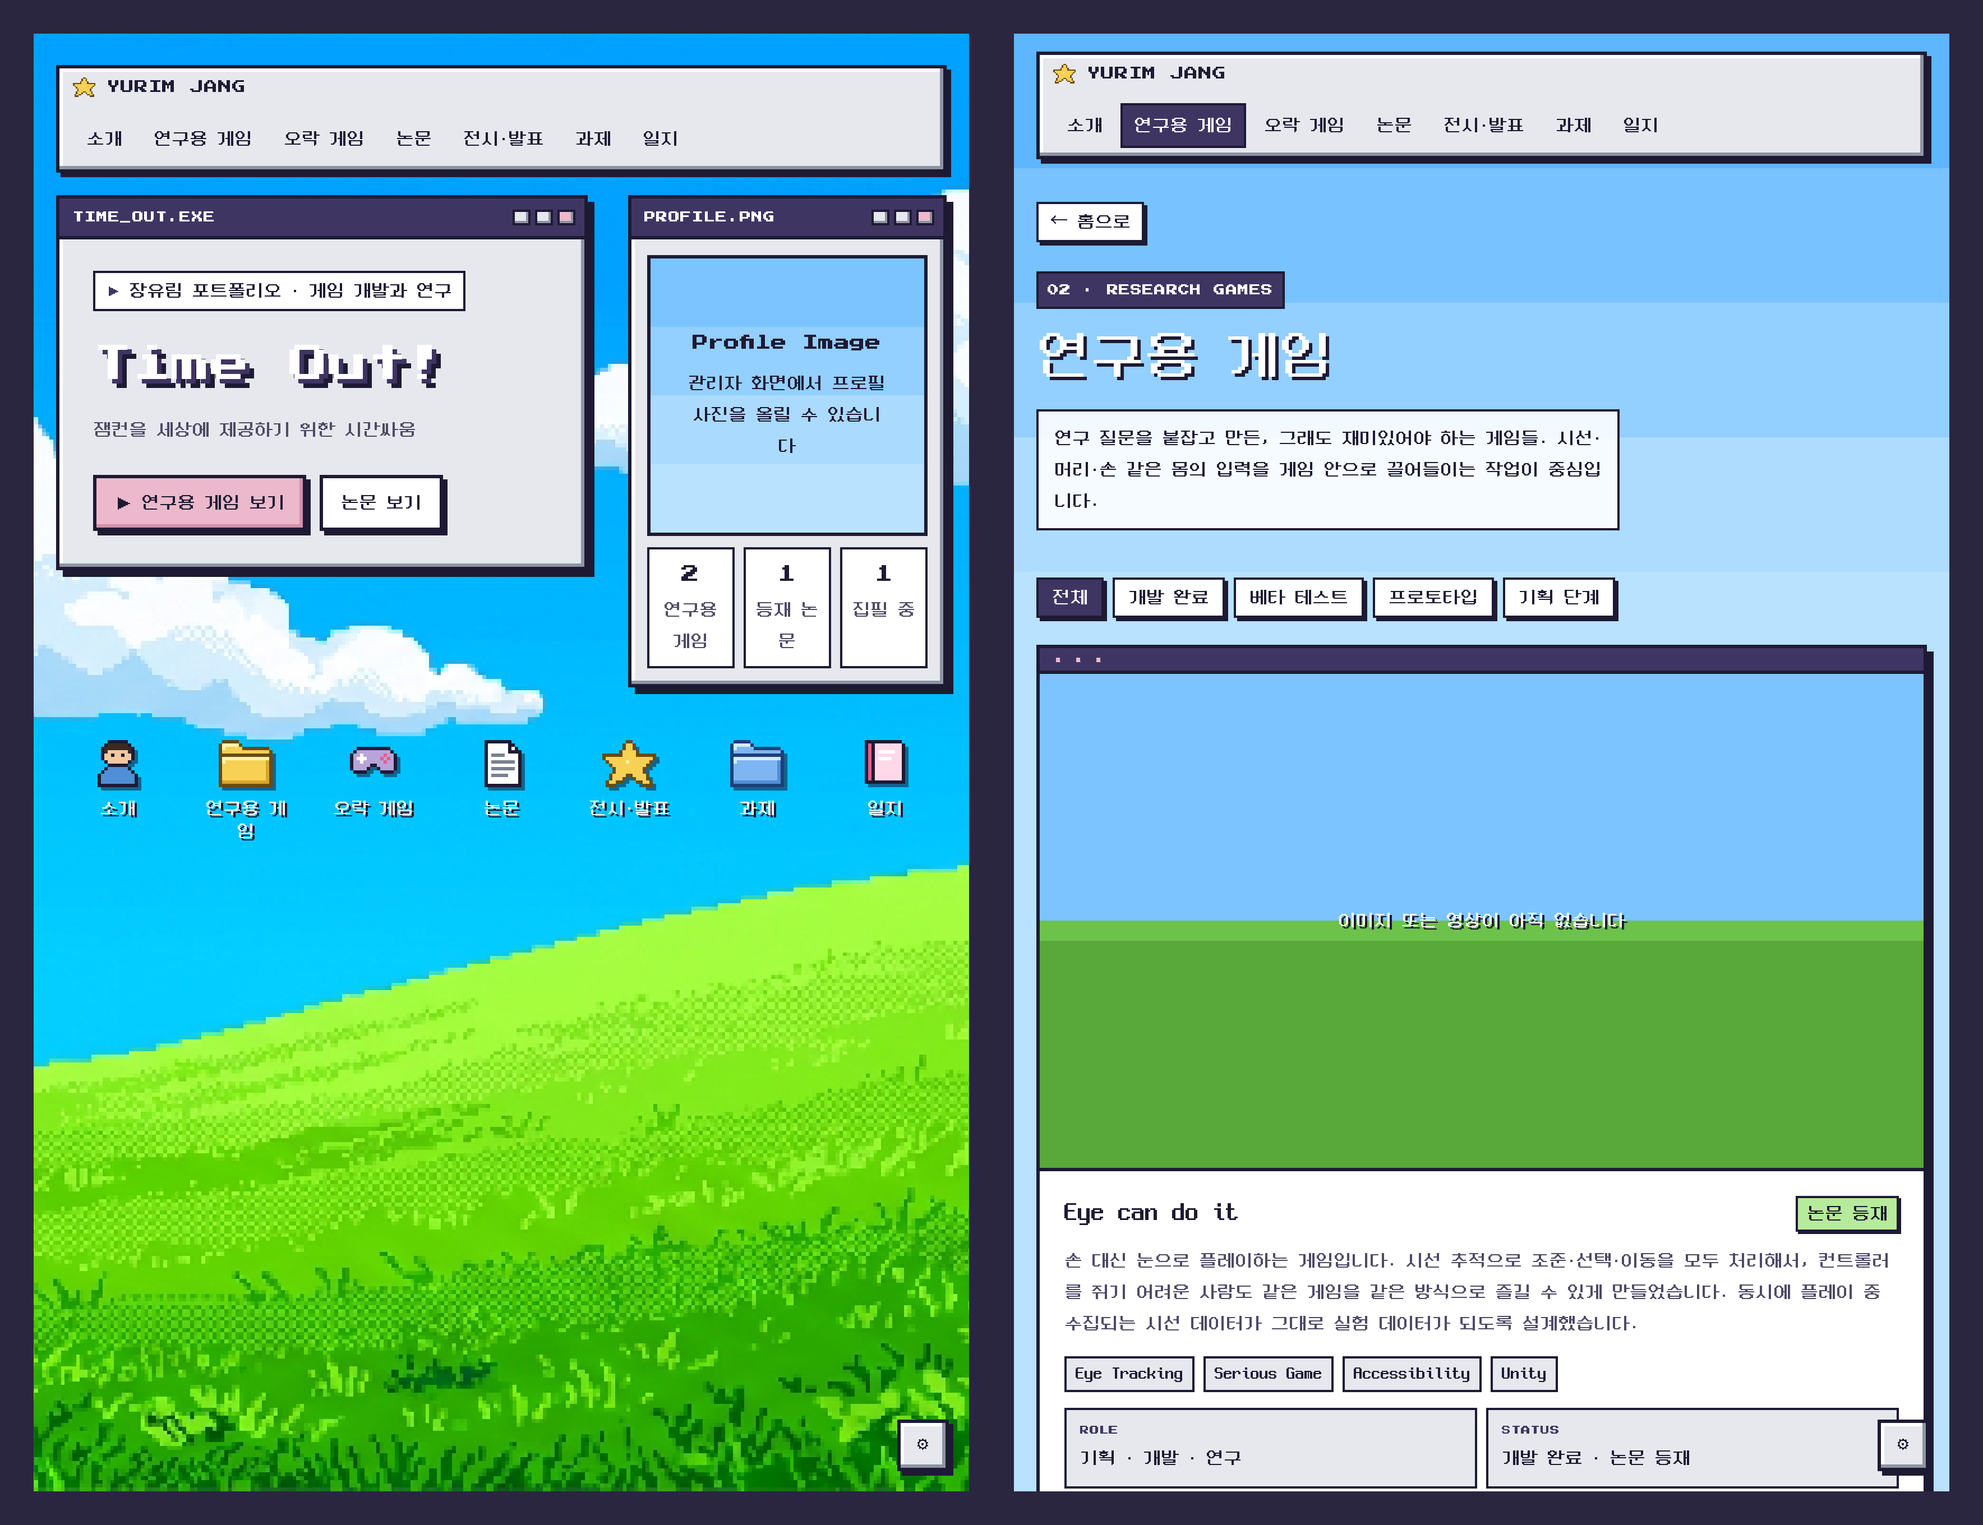
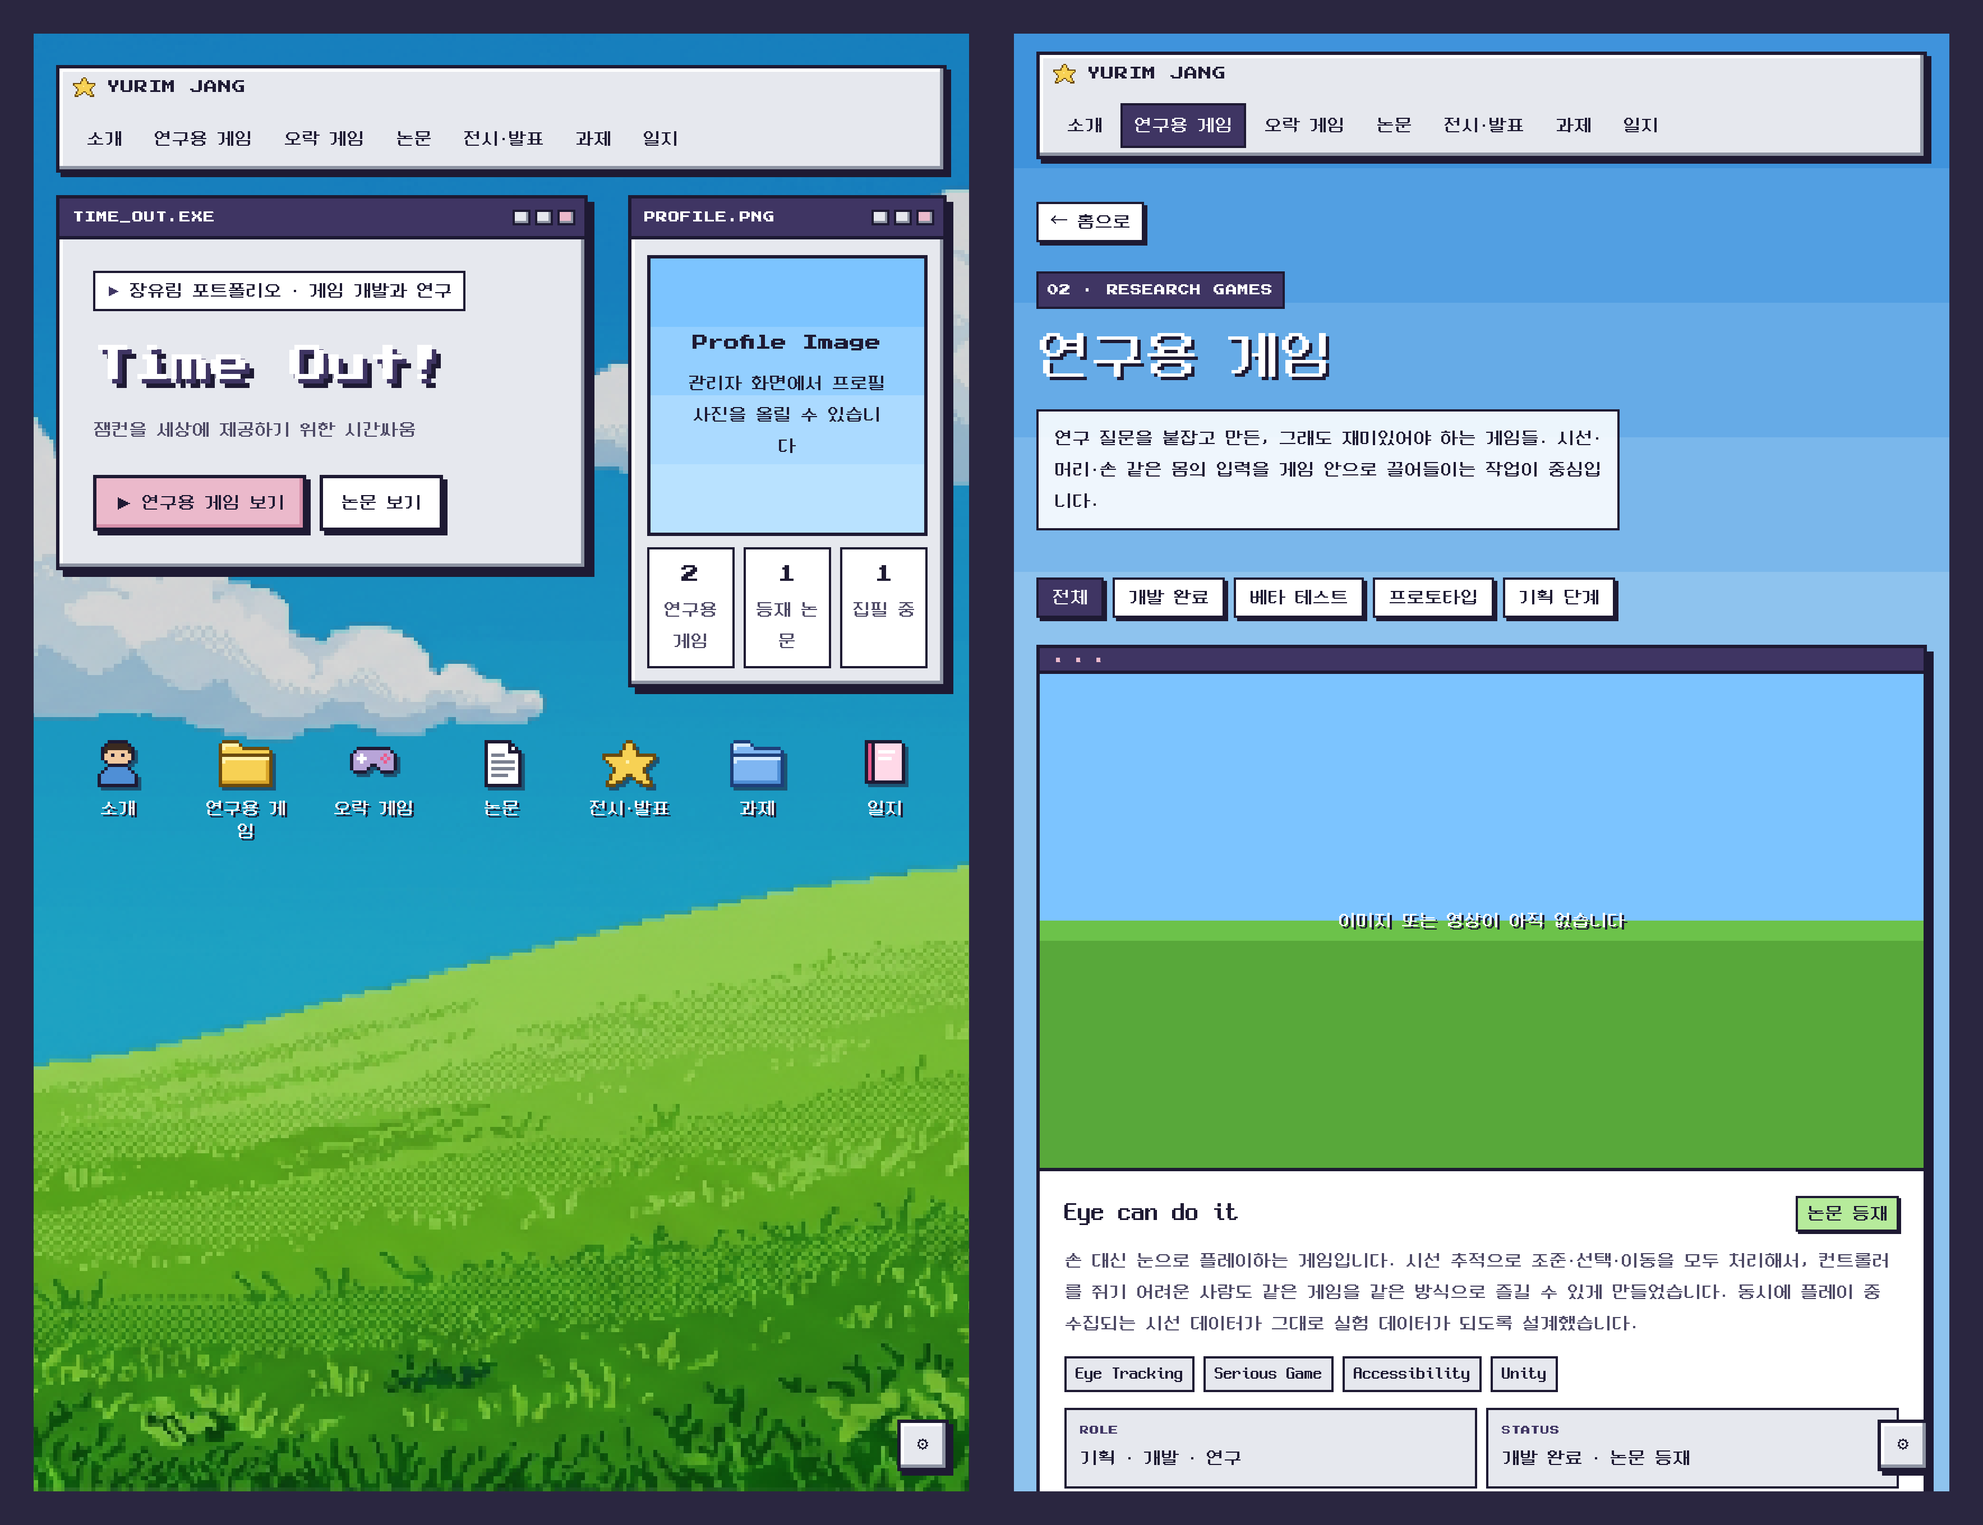
배경 채도·밝기를 낮춰 글씨 가독성 개선, 세로형 명함 추가

diff --git a/src/data.js b/src/data.js
@@ -98,7 +98,7 @@
     { week:'8주차', title:'피그마로 포트폴리오 디자인: 레이아웃 3종 · 브로슈어 · 명함',
       description:'Claude Code에 Figma 플러그인을 연결해 사이트의 색과 폰트를 토큰·컴포넌트로 옮기고 레이아웃 3종을 그린 뒤, 명함과 같은 도트 디자인으로 사이트 자체를 개편했습니다(홈 제목 Time Out!). 개편한 모바일 웹·아이패드·Phone UI 레이아웃은 피그마 01 페이지, 도트 브로슈어는 02 페이지에 있습니다. 로고는 Figma AI로 생성했습니다. 명함은 AI로 만든 실버 도트 노트북이 명함 전체를 채우게 했습니다. 앞면은 모니터 속 파란 하늘·초원 바탕화면에 픽셀 아이콘, 한글 도트 폰트(Neo둥근모)로 쓴 인적 정보, 포트폴리오 QR과 마우스 커서를 넣었고, 뒷면은 게임·학교 스티커가 붙은 덮개입니다. 그리고 사이트를 중심으로 한 A4 브로슈어 1장도 만들었습니다.',
       tags:['Figma','Claude Code','Figma MCP','이미지 생성','도트 리디자인','브로슈어','명함'],
-      links:[{label:'피그마 페이지',url:'https://www.figma.com/design/pBcYNrcHfAOoEClr46me2K'},{label:'프롬프트(md)',url:'https://github.com/JangYurim0607/jangyurim0607.github.io/blob/main/assignments/week8/prompts.md'},{label:'브로슈어(PDF)',url:'https://yurim-portfolio-azure.vercel.app/assignments/week8/brochure.pdf'},{label:'명함 앞면',url:'https://yurim-portfolio-azure.vercel.app/assignments/week8/card-front.png'},{label:'명함 뒷면',url:'https://yurim-portfolio-azure.vercel.app/assignments/week8/card-back.png'},{label:'로고',url:'https://yurim-portfolio-azure.vercel.app/assignments/week8/logo.png'},{label:'모바일 웹',url:'https://yurim-portfolio-azure.vercel.app/assignments/week8/layout-mobile.png'},{label:'아이패드',url:'https://yurim-portfolio-azure.vercel.app/assignments/week8/layout-ipad.png'},{label:'Phone UI',url:'https://yurim-portfolio-azure.vercel.app/assignments/week8/layout-phone-ui.png'},{label:'Phone UI(웹)',url:'https://yurim-portfolio-azure.vercel.app/assignments/week8/pixel/phone-ui.html'},{label:'브로슈어(웹)',url:'https://yurim-portfolio-azure.vercel.app/assignments/week8/pixel/brochure.html'},{label:'이전 파스텔 시안',url:'https://github.com/JangYurim0607/jangyurim0607.github.io/tree/main/assignments/week8/v1'}] }
+      links:[{label:'피그마 페이지',url:'https://www.figma.com/design/pBcYNrcHfAOoEClr46me2K'},{label:'프롬프트(md)',url:'https://github.com/JangYurim0607/jangyurim0607.github.io/blob/main/assignments/week8/prompts.md'},{label:'브로슈어(PDF)',url:'https://yurim-portfolio-azure.vercel.app/assignments/week8/brochure.pdf'},{label:'명함 앞면',url:'https://yurim-portfolio-azure.vercel.app/assignments/week8/card-front.png'},{label:'명함 뒷면',url:'https://yurim-portfolio-azure.vercel.app/assignments/week8/card-back.png'},{label:'세로 명함 앞면',url:'https://yurim-portfolio-azure.vercel.app/assignments/week8/card-front-vertical.png'},{label:'세로 명함 뒷면',url:'https://yurim-portfolio-azure.vercel.app/assignments/week8/card-back-vertical.png'},{label:'로고',url:'https://yurim-portfolio-azure.vercel.app/assignments/week8/logo.png'},{label:'모바일 웹',url:'https://yurim-portfolio-azure.vercel.app/assignments/week8/layout-mobile.png'},{label:'아이패드',url:'https://yurim-portfolio-azure.vercel.app/assignments/week8/layout-ipad.png'},{label:'Phone UI',url:'https://yurim-portfolio-azure.vercel.app/assignments/week8/layout-phone-ui.png'},{label:'Phone UI(웹)',url:'https://yurim-portfolio-azure.vercel.app/assignments/week8/pixel/phone-ui.html'},{label:'브로슈어(웹)',url:'https://yurim-portfolio-azure.vercel.app/assignments/week8/pixel/brochure.html'},{label:'이전 파스텔 시안',url:'https://github.com/JangYurim0607/jangyurim0607.github.io/tree/main/assignments/week8/v1'}] }
     ,
     { week:'8주차', title:'영상 생성: 내가 랜딩페이지를 소개한다 (숏폼)',
       description:'세미나에서 다룬 인물 중심 숏폼입니다. Runway(Seedance 2.5)로 만든 12초 세로(9:16) 원테이크 영상으로, 도트 디자인으로 바꾼 이 포트폴리오 사이트 안에서 인물이 사이트를 소개합니다.',

diff --git a/assignments/week8/pixel/card/card.html b/assignments/week8/pixel/card/card.html
@@ -1,0 +1,72 @@
+<!doctype html>
+<html lang="ko">
+<head>
+<meta charset="utf-8">
+<link href="https://fonts.googleapis.com/css2?family=Press+Start+2P&display=swap" rel="stylesheet">
+<style>
+  @font-face{font-family:"NeoDunggeunmo";src:url("neodgm.woff2") format("woff2")}
+  :root{--ink:#1E1A33;--pink:#EBB9CB;--lilac:#B8A4D8;--gold:#F7D154}
+  *{box-sizing:border-box}
+  html,body{margin:0;background:transparent}
+  body{font-family:"NeoDunggeunmo",monospace;-webkit-font-smoothing:none;color:#fff}
+  .card{position:relative;overflow:hidden}
+  .h{width:1080px;height:603px}
+  .v{width:603px;height:1080px}
+  /* 화면: 배경화면 채도·밝기를 낮춰 흰 글씨가 잘 읽히게 */
+  .screen{position:absolute;left:18px;top:24px;overflow:hidden;background:#1d6fb8}
+  .h .screen{width:1042px;height:542px}
+  .v .screen{width:567px;height:1032px}
+  .screen img.wp{position:absolute;inset:0;width:100%;height:100%;object-fit:cover;image-rendering:pixelated;
+    filter:saturate(.78) brightness(.84)}
+  .v .screen img.wp{object-position:58% 50%}
+  .bezel{position:absolute;inset:0;width:100%;height:100%}
+  .info{position:absolute}
+  .h .info{left:68px;top:150px}
+  .v .info{left:40px;top:104px}
+  .row{display:flex;align-items:flex-start;gap:16px;margin-bottom:18px}
+  .row .ic{width:40px;height:40px;flex:none;filter:drop-shadow(2px 2px 0 rgba(30,26,51,.6))}
+  .row .t{font-size:32px;line-height:40px;white-space:nowrap;text-shadow:2px 2px 0 var(--ink),-1px 0 0 var(--ink),0 -1px 0 var(--ink)}
+  .row.name{margin-bottom:22px}
+  .row.name .ic{margin-top:10px}
+  .row.name .t{font-size:48px;line-height:48px;text-shadow:3px 3px 0 var(--ink),-1px 0 0 var(--ink),0 -1px 0 var(--ink)}
+  .row.name small{display:block;margin-top:6px;font-family:"Press Start 2P",monospace;font-size:12px;line-height:12px;color:var(--gold);text-shadow:2px 2px 0 var(--ink)}
+  .h .row{margin-bottom:18px}
+  .qr{position:absolute;background:#fff;border:4px solid var(--lilac);padding:10px;box-shadow:5px 5px 0 rgba(30,26,51,.55)}
+  .qr img{display:block;width:100%;height:100%}
+  .h .qr{left:802px;top:150px;width:198px;height:198px}
+  .v .qr{left:182px;top:560px;width:240px;height:240px}
+  .btn{position:absolute;width:170px;height:52px;background:var(--pink);border:3px solid #fff;
+    box-shadow:inset -3px -3px 0 #d690aa,5px 5px 0 var(--ink);color:var(--ink);
+    display:flex;align-items:center;justify-content:center;gap:10px;font-size:32px;line-height:1}
+  .btn b{font-size:16px;font-weight:400}
+  .h .btn{left:816px;top:368px}
+  .v .btn{left:217px;top:836px}
+  .cursor{position:absolute;width:36px;height:57px}
+  .h .cursor{left:928px;top:397px}
+  .v .cursor{left:329px;top:865px}
+</style>
+</head>
+<body>
+<div class="card" id="card">
+  <div class="screen"><img class="wp" src="wallpaper_full.png" alt=""></div>
+  <div class="info">
+    <div class="row name"><img class="ic" src="ic_person.svg" alt=""><div class="t">장유림<small>YURIM JANG</small></div></div>
+    <div class="row"><img class="ic" src="ic_folder.svg" alt=""><div class="t" data-v="성균관대학교<br>앵커사업단 PM">성균관대학교 앵커사업단 PM</div></div>
+    <div class="row"><img class="ic" src="ic_cap.svg" alt=""><div class="t" data-v="성균관대학교 게임디자인학과<br>박사과정">성균관대학교 게임디자인학과 박사과정</div></div>
+    <div class="row"><img class="ic" src="ic_phone.svg" alt=""><div class="t">010-2826-0607</div></div>
+    <div class="row"><img class="ic" src="ic_mail.svg" alt=""><div class="t">itree0607@skku.edu</div></div>
+  </div>
+  <div class="qr"><img src="qr.svg" alt="QR"></div>
+  <div class="btn"><b>▶</b>더보기</div>
+  <img class="cursor" src="cursor.svg" alt="">
+  <img class="bezel" id="bezel" alt="">
+</div>
+<script>
+  const v = location.hash === '#v';
+  const card = document.getElementById('card');
+  card.classList.add(v ? 'v' : 'h');
+  document.getElementById('bezel').src = v ? 'bezel_v.png' : 'bezel_h.png';
+  if (v) document.querySelectorAll('[data-v]').forEach(el => el.innerHTML = el.dataset.v);
+</script>
+</body>
+</html>

diff --git a/src/styles.css b/src/styles.css
@@ -732,7 +732,7 @@
 
     /* 바탕화면 */
     .home-bg{
-      background:#3FA9F5 url("../assets/pixel/wallpaper.png") center bottom / cover no-repeat;
+      background:#2F86C9 url("../assets/pixel/wallpaper.png") center bottom / cover no-repeat;
       image-rendering:pixelated;
     }
     .home-bg::before, .noise{ display:none }
@@ -855,7 +855,7 @@
     body.theme-about, body.theme-research, body.theme-games,
     body.theme-papers, body.theme-showcase, body.theme-assignments{
       background:
-        linear-gradient(#5DB6FF 0 120px, #78C3FF 120px 240px, #93CFFF 240px 360px, #ADDCFF 360px 480px, var(--sky-2) 480px) fixed;
+        linear-gradient(#3F93DC 0 120px, #529FE2 120px 240px, #66ABE7 240px 360px, #7AB7EB 360px 480px, #8EC3EE 480px) fixed;
     }
     body.theme-about .section.active-section,
     body.theme-research .section.active-section,

diff --git a/assignments/week8/pixel/phone-ui.html b/assignments/week8/pixel/phone-ui.html
@@ -13,7 +13,7 @@
   body{display:grid;place-items:center;min-height:100vh;font-family:"NeoDunggeunmo",monospace;font-size:16px;color:var(--ink);-webkit-font-smoothing:none}
   .phone{
     width:393px;height:852px;position:relative;overflow:hidden;
-    background:#3FA9F5 url("../../../assets/pixel/wallpaper.png") center bottom / cover no-repeat;
+    background:#2F86C9 url("../../../assets/pixel/wallpaper.png") center bottom / cover no-repeat;
     image-rendering:pixelated;border:4px solid var(--ink);
   }
   .status{

diff --git a/assignments/week8/pixel/card/back_v.py b/assignments/week8/pixel/card/back_v.py
@@ -1,0 +1,59 @@
+from PIL import Image, ImageDraw, ImageFilter
+import random, collections
+random.seed(7)
+src=Image.open('/Users/jang-yurim/Projects/jangyurim0607.github.io/assignments/week8/card-back.png').convert('RGBA')
+mask=Image.open('back_mask.png').resize(src.size, Image.NEAREST)  # 255 = sticker/outline
+def cut(b, pad=14):
+    x0,y0,x1,y1=[v*2 for v in b]; x0-=pad;y0-=pad;x1+=pad+2;y1+=pad+2
+    s=src.crop((x0,y0,x1,y1)); m=mask.crop((x0,y0,x1,y1))
+    # keep only the component connected to the centre-ish region: flood from bbox centre
+    w,h=m.size; mp=m.load(); keep=Image.new('L',(w,h),0); kp=keep.load()
+    cx,cy=w//2,h//2
+    seeds=[(x,y) for x in range(w) for y in range(h) if mp[x,y]>0 and abs(x-cx)<w//4 and abs(y-cy)<h//4]
+    st=seeds[:]; 
+    for x,y in st: kp[x,y]=255
+    while st:
+        x,y=st.pop()
+        for a,b2 in ((x+1,y),(x-1,y),(x,y+1),(x,y-1)):
+            if 0<=a<w and 0<=b2<h and mp[a,b2]>0 and not kp[a,b2]: kp[a,b2]=255; st.append((a,b2))
+    s.putalpha(keep); return s.crop(s.getbbox())
+B={'hamster':(67,42,204,210),'chin':(253,49,424,208),'sims':(719,32,810,197),'grass':(883,35,1024,178),
+ 'creeper':(51,251,171,369),'chick1':(221,244,348,371),'skku':(409,170,669,431),'chick2':(736,244,863,371),
+ 'parsnip':(919,221,1028,360),'helmet':(60,421,208,548),'pan':(278,421,440,560),'drop':(646,412,806,566),'hex':(864,391,1051,569),
+ 'heart1':(205,35,259,82),'heart2':(809,192,855,233),'spark1':(436,69,460,98),'spark2':(188,387,224,427),'spark3':(1018,183,1044,209)}
+P={k:cut(v, 6 if k.startswith(('heart','spark')) else 14) for k,v in B.items()}
+for k,v in P.items(): print(k,v.size)
+W,H=1206,2160
+# silver lid
+bg=Image.new('RGB',(W,H)); d=ImageDraw.Draw(bg)
+for y in range(H):
+    t=y/H; c=tuple(int(a+(b-a)*t) for a,b in zip((214,218,230),(198,202,216))); d.line([(0,y),(W,y)],fill=c)
+sheen=Image.new('L',(W,H),0); sd=ImageDraw.Draw(sheen)
+sd.polygon([(W*0.15,H),(W*0.55,H),(W*1.0,H*0.35),(W*1.0,0),(W*0.85,0)],fill=70)
+sd.polygon([(0,H*0.62),(0,H*0.78),(W*0.9,0),(W*0.7,0)],fill=40)
+sheen=sheen.filter(ImageFilter.GaussianBlur(90))
+bg=Image.composite(Image.new('RGB',(W,H),(238,240,247)),bg,sheen)
+streak=Image.new('L',(W,H),0); st=ImageDraw.Draw(streak)
+for _ in range(900):
+    y=random.randrange(H); x=random.randrange(-200,W); L=random.randrange(60,420)
+    st.line([(x,y),(x+L,y)],fill=random.randrange(10,35),width=random.choice((1,2)))
+streak=streak.filter(ImageFilter.GaussianBlur(1.2))
+bg=Image.composite(Image.new('RGB',(W,H),(250,251,255)),bg,streak)
+bg=bg.convert('RGBA'); d=ImageDraw.Draw(bg)
+d.rounded_rectangle([3,3,W-4,H-4],radius=26,outline=(176,182,198),width=4)
+d.rounded_rectangle([10,10,W-11,H-11],radius=20,outline=(236,238,245),width=3)
+def put(k,cx,cy,scale=1.0):
+    im=P[k]
+    if scale!=1: im=im.resize((int(im.width*scale),int(im.height*scale)),Image.NEAREST)
+    bg.alpha_composite(im,(int(cx-im.width/2),int(cy-im.height/2)))
+cols=[W*0.20,W*0.50,W*0.80]
+rows=[[('hamster',),('chin',),('sims',)],[('creeper',),('chick1',),('grass',)]]
+put('hamster',cols[0],270); put('chin',cols[1]+20,270); put('sims',cols[2]+20,270)
+put('creeper',cols[0],650); put('chick1',cols[1],660); put('grass',cols[2],650)
+put('skku',W/2,1080)
+put('chick2',cols[0],1500); put('parsnip',cols[1],1500); put('drop',cols[2],1500)
+put('helmet',cols[0],1880); put('pan',cols[1]+10,1880); put('hex',cols[2]-10,1870,0.94)
+for k,(x,y) in {'heart1':(1050,110),'heart2':(130,850),'spark1':(560,470),'spark3b':(1080,860),'spark1b':(250,1320),
+                'heart2b':(1000,1320)}.items():
+    put(k[:-1] if k.endswith('b') else k, x,y)
+bg.save('back_v.png')

diff --git a/assignments/week8/prompts.md b/assignments/week8/prompts.md
@@ -119,3 +119,13 @@ Minimal logo mark for a game designer and researcher named Yurim Jang. A single 
 - 피그마 파일 이름도 "8주차 과제"로 고쳤다.
 - 이전 파스텔 버전 레이아웃·브로슈어는 `assignments/week8/v1/`에 남겨 두었다.
 - Phone UI와 브로슈어 원본 HTML: `assignments/week8/pixel/phone-ui.html`, `assignments/week8/pixel/brochure.html`
+
+## 7. 글씨 가독성 보정 · 세로형 명함
+
+> 명함이랑 사이트에서 메인 글씨가 살짝 안보이는 것 같아서 배경 채도나 밝기를 살짝 조절해주고, 같은 포맷으로 세로형 명함도 만들어줘
+
+- 배경화면: 채도 78%, 밝기 84%로 낮췄다. 명함 화면과 사이트 홈 바탕화면(`assets/pixel/wallpaper.png`)에 같은 값을 썼다.
+- 사이트 섹션 페이지의 하늘 단계 색을 한 톤씩 진하게 바꿔서 흰 제목(예: "과제")이 잘 보이게 했다.
+- 명함 앞면은 가로·세로 모두 같은 템플릿([pixel/card/card.html](pixel/card/card.html))에서 뽑는다. Figma 명함에서 아이콘 다섯 개를 16×16 도트로 옮기고, 글씨는 Neo둥근모 32px(이름 48px)로 넣었다. 세로형은 소속·학과 줄을 두 줄로 나눴다. 모니터 테두리는 가로 명함 테두리를 잘라 세로로 이어 붙였고, 웹캠은 위쪽 가운데에 그대로 두었다.
+- 세로형 뒷면: 가로 뒷면 AI 이미지에서 스티커 13장을 흰 테두리 기준으로 오려 내 세로 실버 덮개 위에 다시 배치했다([pixel/card/back_v.py](pixel/card/back_v.py)). SKKU 스티커가 가운데 가장 크게 오고, 위아래로 세 개씩 두 줄이 있다.
+- QR은 가로·세로 둘 다 모듈 841칸이 원본 QR과 모두 일치했다.
